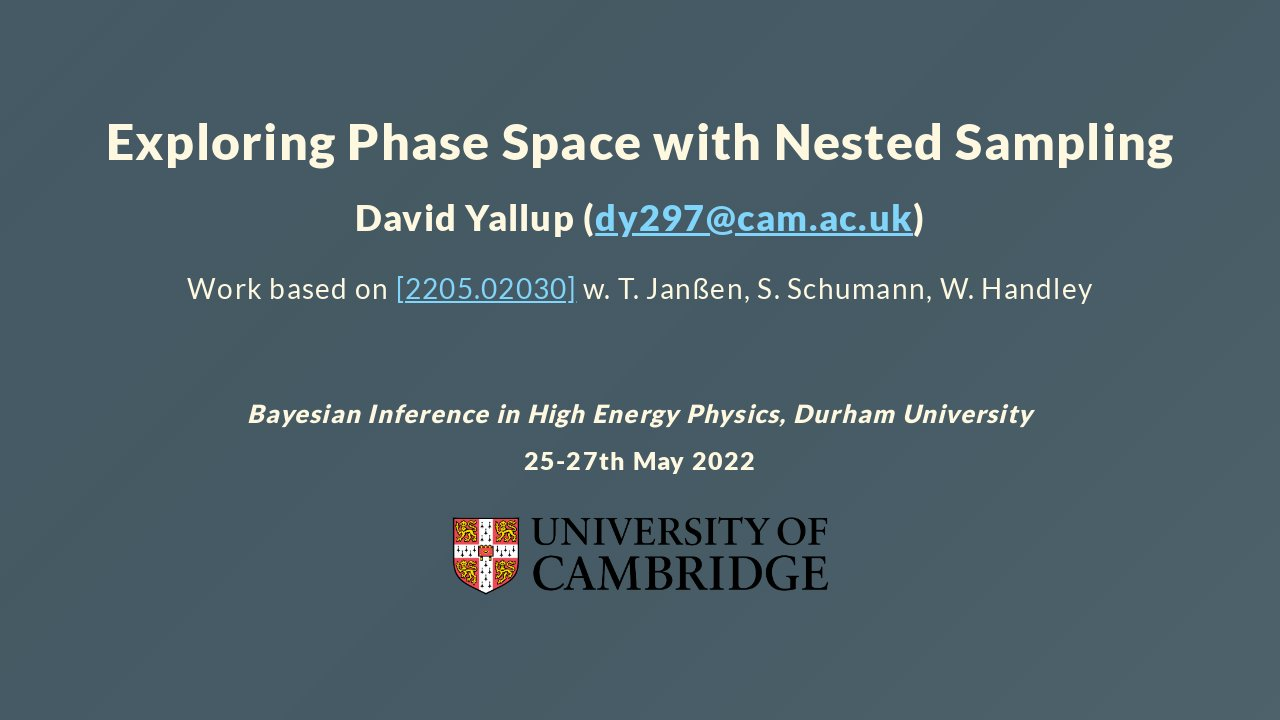
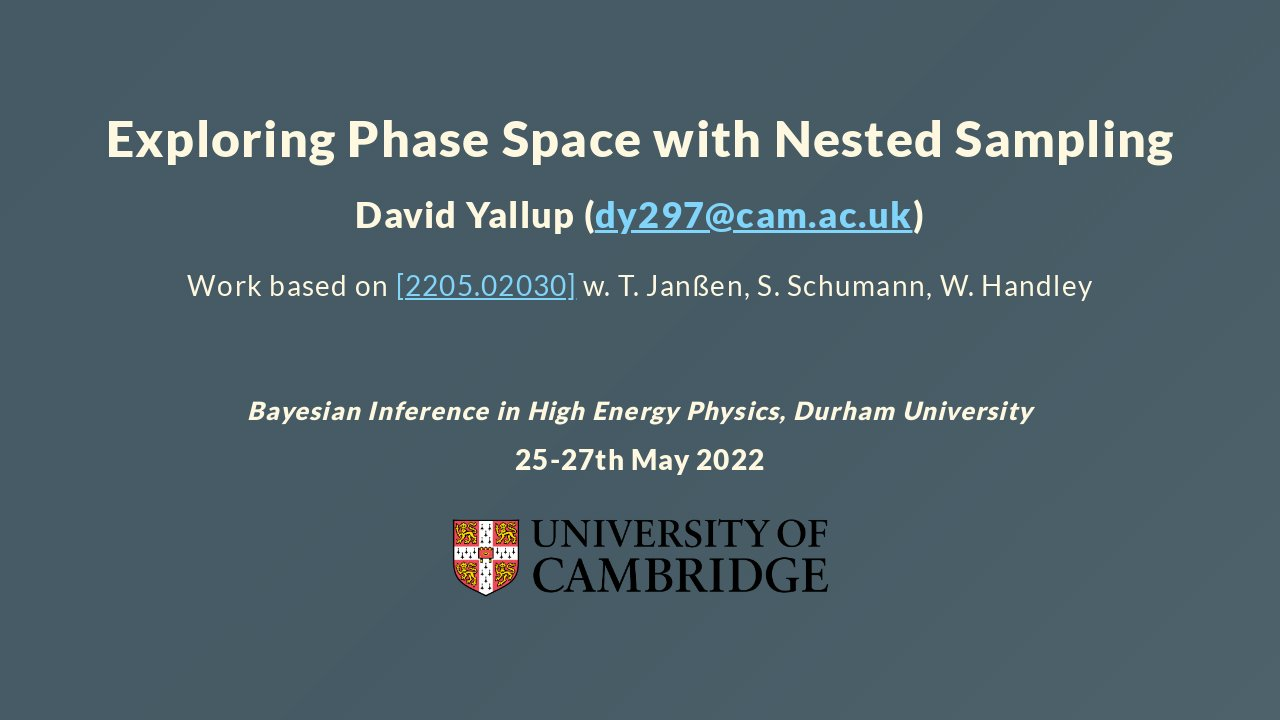
Deploying to gh-pages from  @ c70f995cad2430c073a34a52e89c252ffff24b3c 🚀

diff --git a/index.html b/index.html
@@ -15,7 +15,7 @@
  <br />
  </p>
 <h6><em>Bayesian Inference in High Energy Physics, Durham University</em></h6>
-<h6>25-27th May 2022</h6>
+<h5>25-27th May 2022</h5>
 <p><img src="./assets/cam.png" alt="" style="height:100px;" /></p>
 </section>
 </foreignObject></svg><svg data-marpit-svg="" viewBox="0 0 1280 720"><foreignObject width="1280" height="720"><section id="2" data-class="invert" data-paginate="true" data-theme="gaia" class="invert" data-marpit-pagination="2" data-marpit-pagination-total="16" style="--class:invert;--paginate:true;--theme:gaia;">
